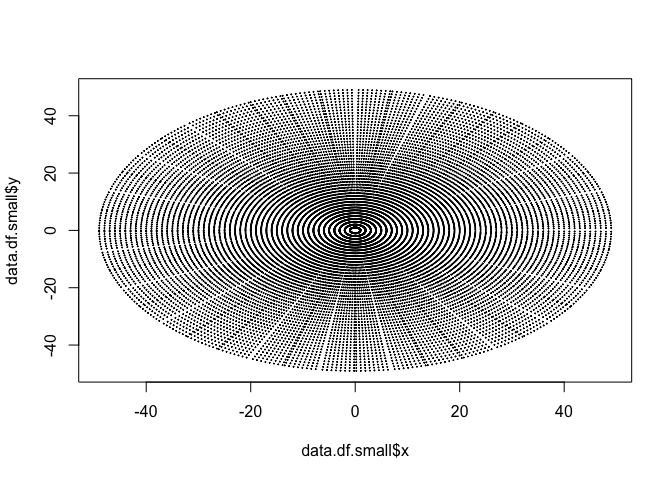
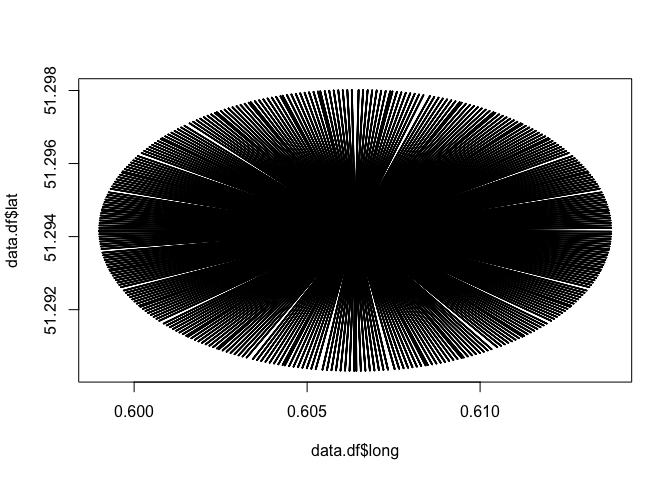
flat pointcloud

diff --git a/rhdf5/README.md b/rhdf5/README.md
@@ -193,9 +193,21 @@ str(testData)
 # Turn matrix into long format, add angles and distances from radar to build polar coordinates
 data.df<-data.frame(value=as.vector(testData),theta=rep(c(1:360),425),radius=rep(c(1:425),each=360))
 
-# Trigonometry to calculate x and y (note that the scan is a single elevation, so treating it as flat for now)
+# Extract lat and long of the radar from the /where data in the h5 file
+RadarLoc<-h5readAttributes(basename(f),"/where")
+# Trigonometry to calculate x and y coordinates of each point in the scan
+# note that the scan is a single elevation, so treating it as flat for now)
 data.df$x = data.df$radius*cos(data.df$theta)
 data.df$y = data.df$radius*sin(data.df$theta)
+
+# Now calculate the change in latitude and longitude for each of those points
+# https://stackoverflow.com/questions/2187657/calculate-second-point-knowing-the-starting-point-and-distance
+delta_longitude = data.df$x/(111320*cos(RadarLoc$lat))  # dx, dy in meters
+delta_latitude = data.df$y/110540                       # result in degrees long/lat
+
+# Calculate the lat and long of each point in the radar scan
+data.df$lat  = RadarLoc$lat+delta_latitude
+data.df$long = RadarLoc$lon+delta_longitude
 
 # Where value is zero, assuming NoData
 data.df$value[data.df$value==0]<-NA
@@ -207,11 +219,8 @@ plot(data.df$x,data.df$y,cex=0.1)
 ![](README_files/figure-gfm/chris-code-1.png)<!-- -->
 
 ``` r
-# Make dataset smaller by removing points further than 50 units (about 5km, I think) from the radar
-data.df.small<-subset(data.df,data.df$radius<50)
-
-# Plot the smaller dataset
-plot(data.df.small$x,data.df.small$y,cex=0.1)
+# Quick plot - big dataset!
+plot(data.df$long,data.df$lat,cex=0.1)
 ```
 
 ![](README_files/figure-gfm/chris-code-2.png)<!-- -->
@@ -222,21 +231,74 @@ plot(data.df.small$x,data.df.small$y,cex=0.1)
 #   :gain = 0.1; // double
 #   :offset = -32.0; // double
 # I am not sure if I have applied them correctly here...
-data.df.small$value<-data.df.small$value*0.1-32
+data.df$value<-(data.df$value*0.1)-32
 
-# Visualising the new, smaller data with the values.
-library(ggplot2)
-sp<-ggplot(data.df.small, aes(x=x, y=y,color=value)) + geom_point() 
-sp + scale_color_gradient(low="blue", high="red")
+# Make dataset smaller by removing points further than 5km from the radar
+data.df.small<-subset(data.df,data.df$radius<5000)
+
+# Plot the smaller dataset
+plot(data.df.small$x,data.df.small$y,cex=0.1)
 ```
 
-![](README_files/figure-gfm/chris-code-3.png)<!-- --> \#\# hdf5r
+![](README_files/figure-gfm/chris-code-3.png)<!-- -->
 
 ``` r
-f = "~/Documents/Research/BioDAR/Example_Met_Office_H5_Data_Share/202007170002_polar_pl_radar20b2_augzdr_lp.h5"
+# Mapping the dataset with static ggplot2 maps
+# Based on https://bookdown.org/yann_ryan/r-for-newspaper-data/mapping-with-r-geocode-and-map-the-british-librarys-newspaper-collection.html
+library(ggplot2)
+worldmap = map_data('world')
+ggplot() + 
+  geom_polygon(data = worldmap, aes(x = long, 
+                                    y = lat, 
+                                    group = group), 
+               fill = 'gray90', 
+               color = 'black') + 
+  coord_fixed(ratio = 1.3, 
+              xlim = c(-10,3), 
+              ylim = c(50, 59)) + 
+  theme_void() +
+  geom_point(data=data.df, 
+             aes(x=long, 
+                 y=lat,
+                 color=value)) +
+  scale_color_gradient(low="blue", high="red")
+```
 
+![](README_files/figure-gfm/chris-code-4.png)<!-- -->
+
+``` r
+# Something a bit fancier based on Mapbox
+# Based on Robin's work https://geocompr.robinlovelace.net/adv-map.html
+library(mapdeck)
+#set_token(TOKEN)
+ms = mapdeck_style("light")
+mapdeck(style = ms, pitch = 45, location = c(0, 52), zoom = 4) %>%
+add_pointcloud(
+  data = data.df, lat = "lat", lon = "long",
+  radius = 5,
+  fill_colour = "value",
+  palette = "viridis",
+  na_colour = "#808080FF",
+  legend = TRUE,
+  legend_options = NULL,
+  legend_format = NULL,
+  update_view = TRUE,
+  focus_layer = FALSE,
+  digits = 6,
+  transitions = NULL,
+  brush_radius = NULL
+)
+```
+
+    ## Registered S3 method overwritten by 'jsonlite':
+    ##   method     from   
+    ##   print.json jsonify
+
+![](README_files/figure-gfm/chris-code-5.png)<!-- --> \#\# hdf5r
+
+``` r
 library(rhdf5)
-df = h5ls(f)
+df = h5ls(basename(f))
 class(df)
 ```
 
@@ -255,7 +317,7 @@ head(df)
     ## 5 /dataset1/data10     data H5I_DATASET INTEGER   1 x 360
 
 ``` r
-d = h5read(f, "dataset1/data1/data")
+d = h5read(basename(f), "dataset1/data1/data")
 class(d)
 ```
 
